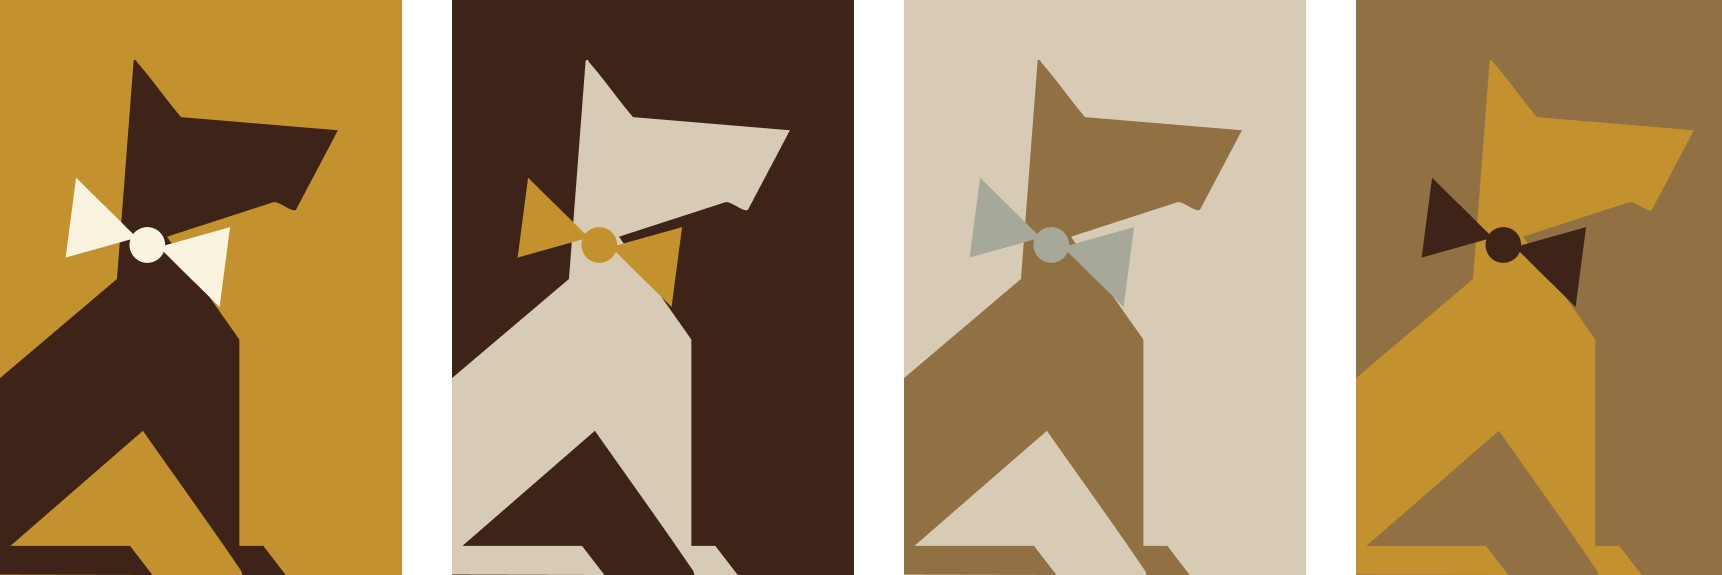
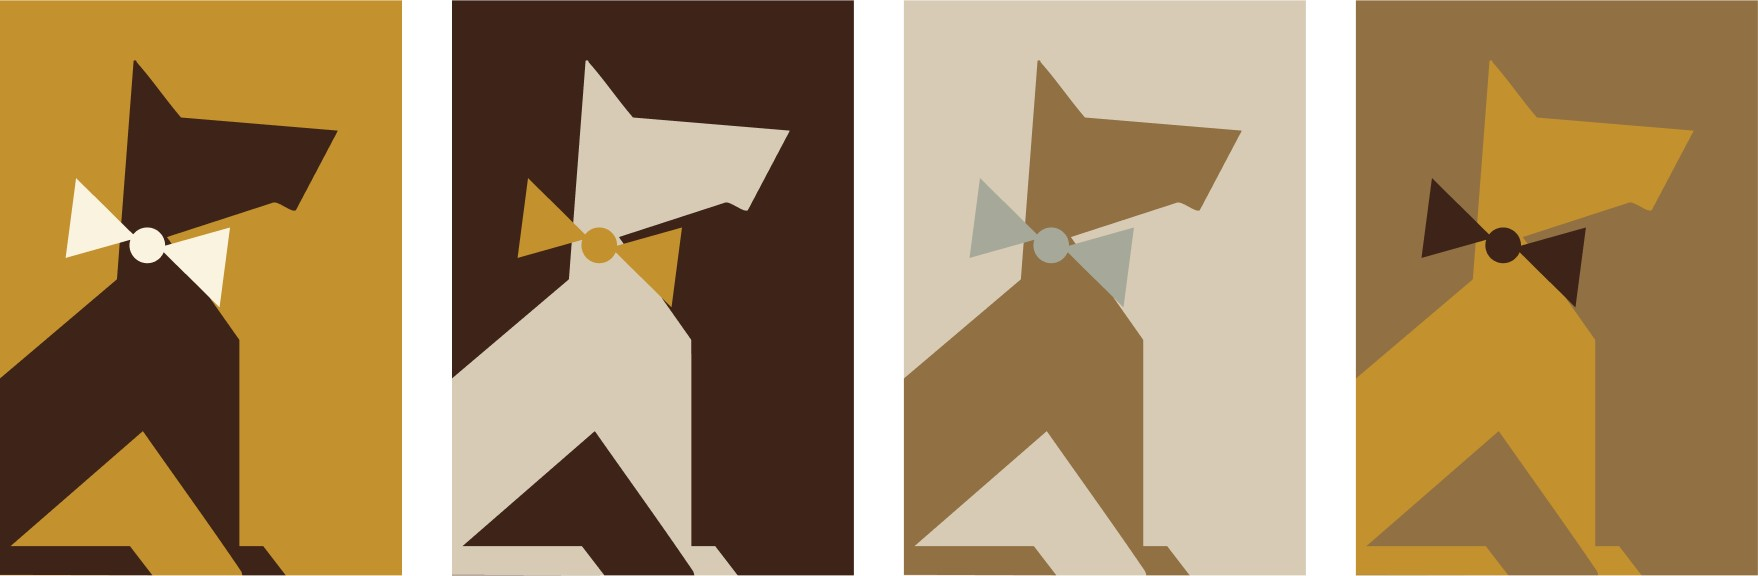
DDD: re-cut the four marks, cards and quote panel after repositioning
The marks band moved: the tiles now end at x=1857, not 1821, so the previous
crop was clipping 36px off the fourth tile. Bounds found by scanning the render
for white gutters rather than trusting the old node box — Brooke rebuilt that
group, so 24:504 no longer exists.

Also worth knowing: get_screenshot on the whole 1:405 frame served a byte-identical
cached render twice while individual node renders came back fresh. Asking for a
different maxDimension (11494 instead of 11495) changed the cache key and
returned current art.

diff --git a/work.html b/work.html
@@ -27,7 +27,7 @@
 <!-- Neue Haas Grotesk Display via Adobe Fonts -->
 <link rel="stylesheet" href="https://use.typekit.net/qay0tct.css">
 <link href="https://fonts.googleapis.com/css2?family=Inter:wght@400;500;700&display=swap" rel="stylesheet">
-<link rel="stylesheet" href="styles.css?v=39">
+<link rel="stylesheet" href="styles.css?v=40">
 </head>
 <body>
 
@@ -181,6 +181,6 @@
   const io = new IntersectionObserver(es => es.forEach(e => e.isIntersecting && e.target.classList.add('in')), { threshold:.08 });
   document.querySelectorAll('.reveal').forEach(el => io.observe(el));
 </script>
-<script src="cases.js?v=39"></script>
+<script src="cases.js?v=40"></script>
 </body>
 </html>

diff --git a/index.html b/index.html
@@ -27,7 +27,7 @@
 <!-- Neue Haas Grotesk Display via Adobe Fonts -->
 <link rel="stylesheet" href="https://use.typekit.net/qay0tct.css">
 <link href="https://fonts.googleapis.com/css2?family=Inter:wght@400;500;700&display=swap" rel="stylesheet">
-<link rel="stylesheet" href="styles.css?v=39">
+<link rel="stylesheet" href="styles.css?v=40">
 </head>
 <body>
 
@@ -253,6 +253,6 @@
     });
   });
 </script>
-<script src="cases.js?v=39"></script>
+<script src="cases.js?v=40"></script>
 </body>
 </html>

diff --git a/info.html b/info.html
@@ -27,7 +27,7 @@
 <!-- Neue Haas Grotesk Display via Adobe Fonts -->
 <link rel="stylesheet" href="https://use.typekit.net/qay0tct.css">
 <link href="https://fonts.googleapis.com/css2?family=Inter:wght@400;500;700&display=swap" rel="stylesheet">
-<link rel="stylesheet" href="styles.css?v=39">
+<link rel="stylesheet" href="styles.css?v=40">
 </head>
 <body class="info-body">
 
